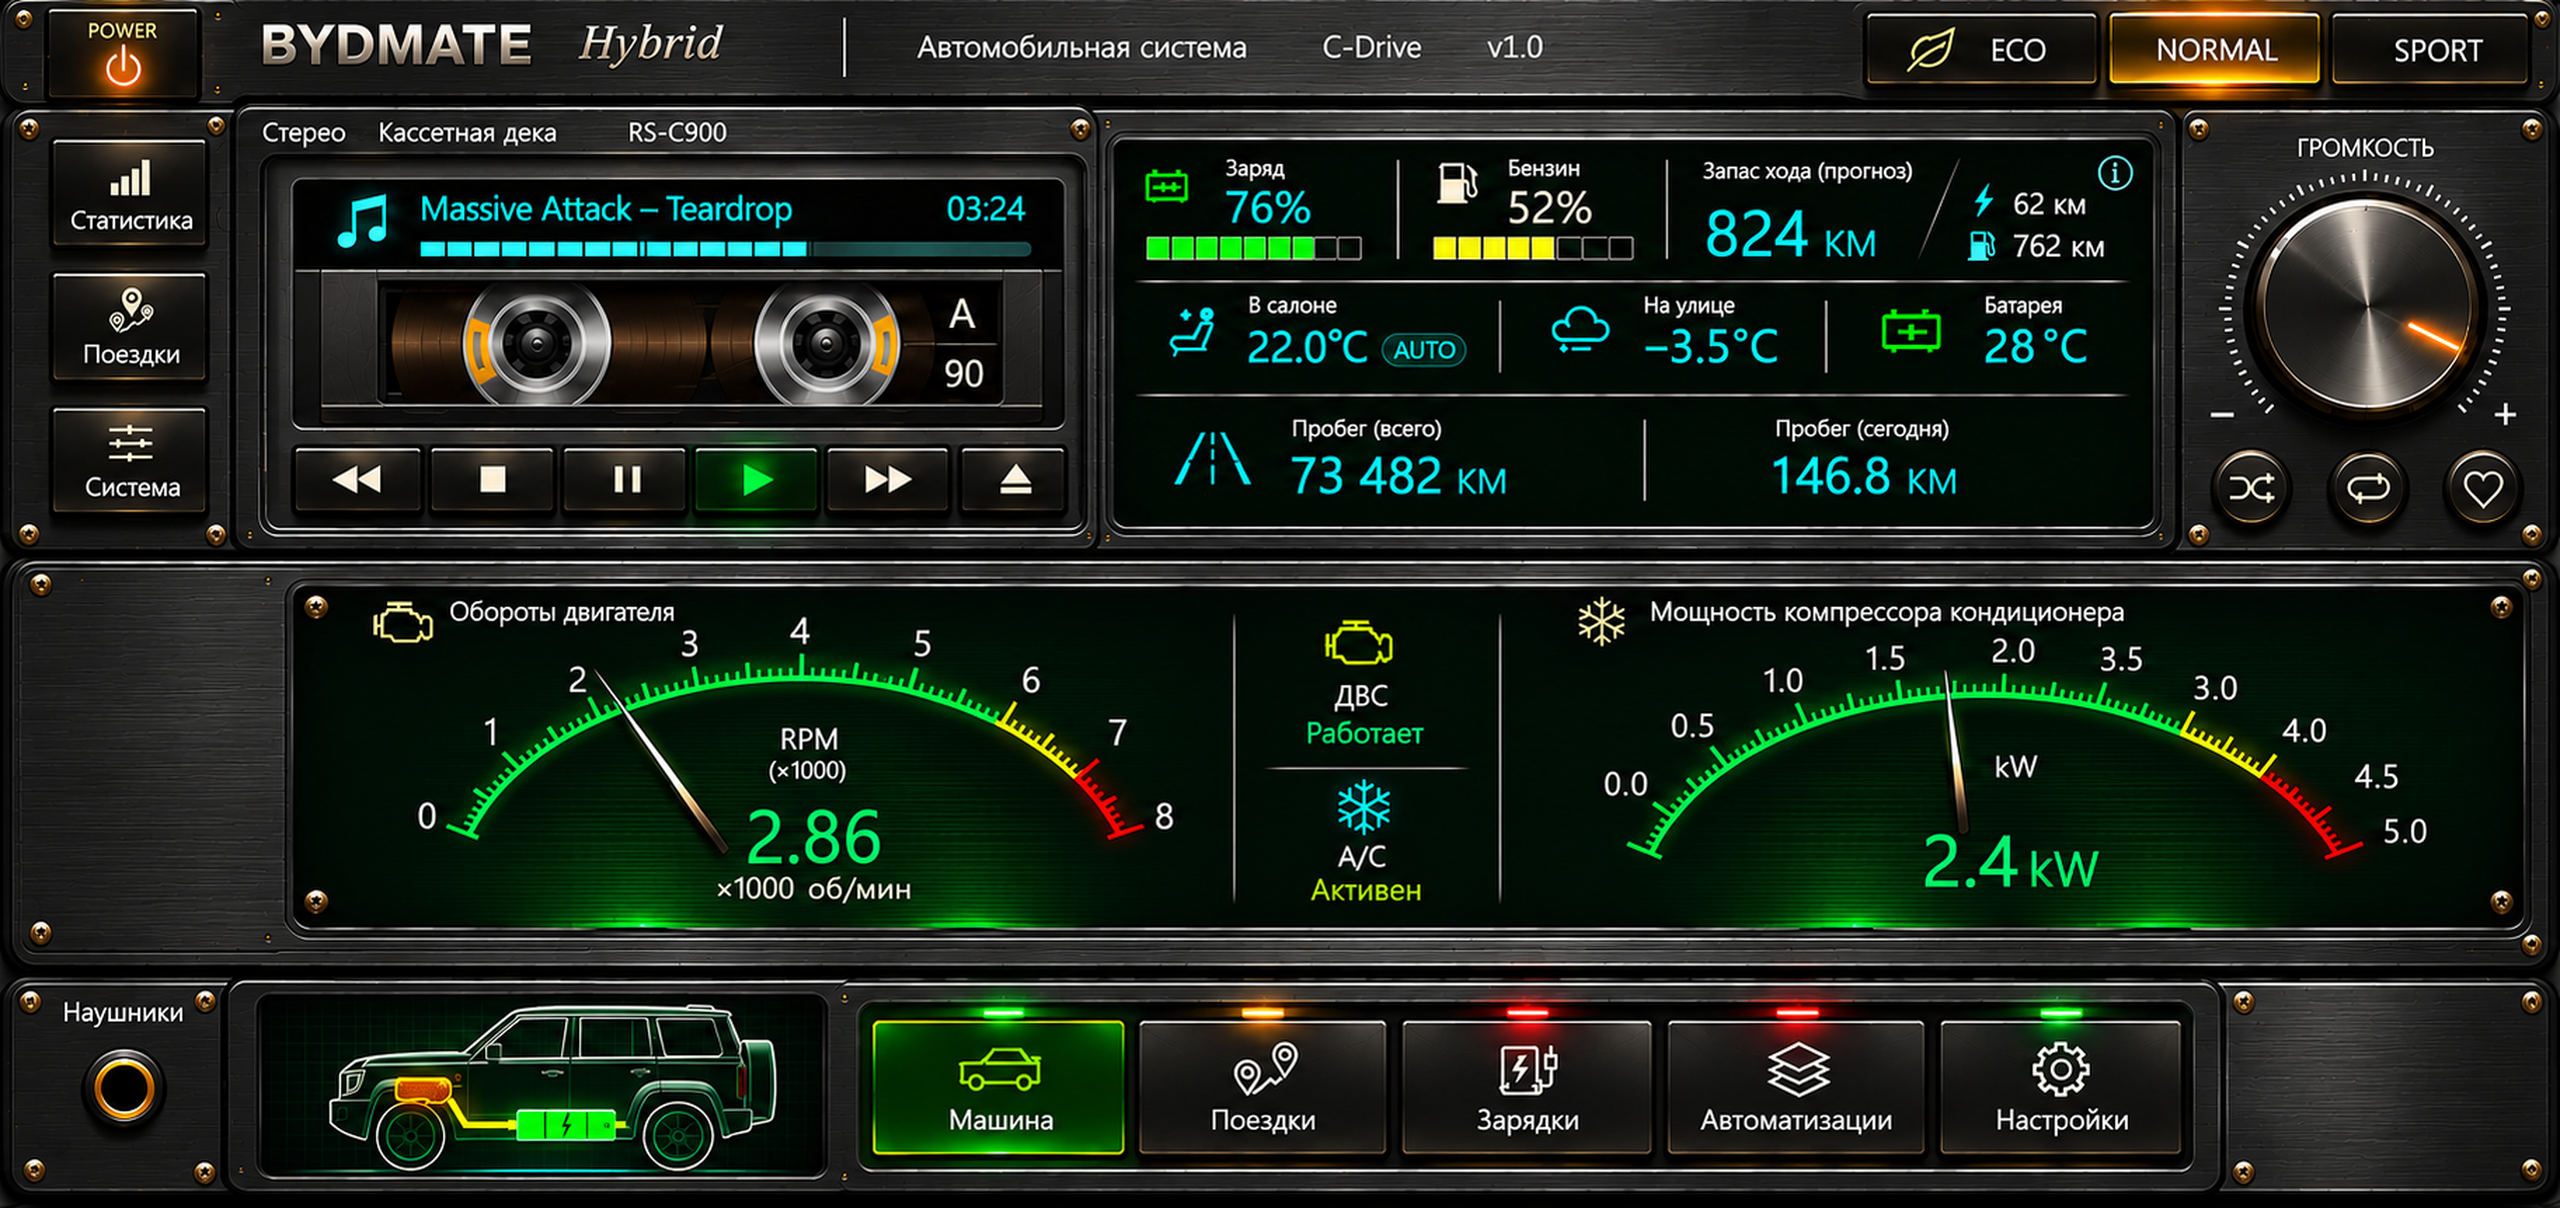
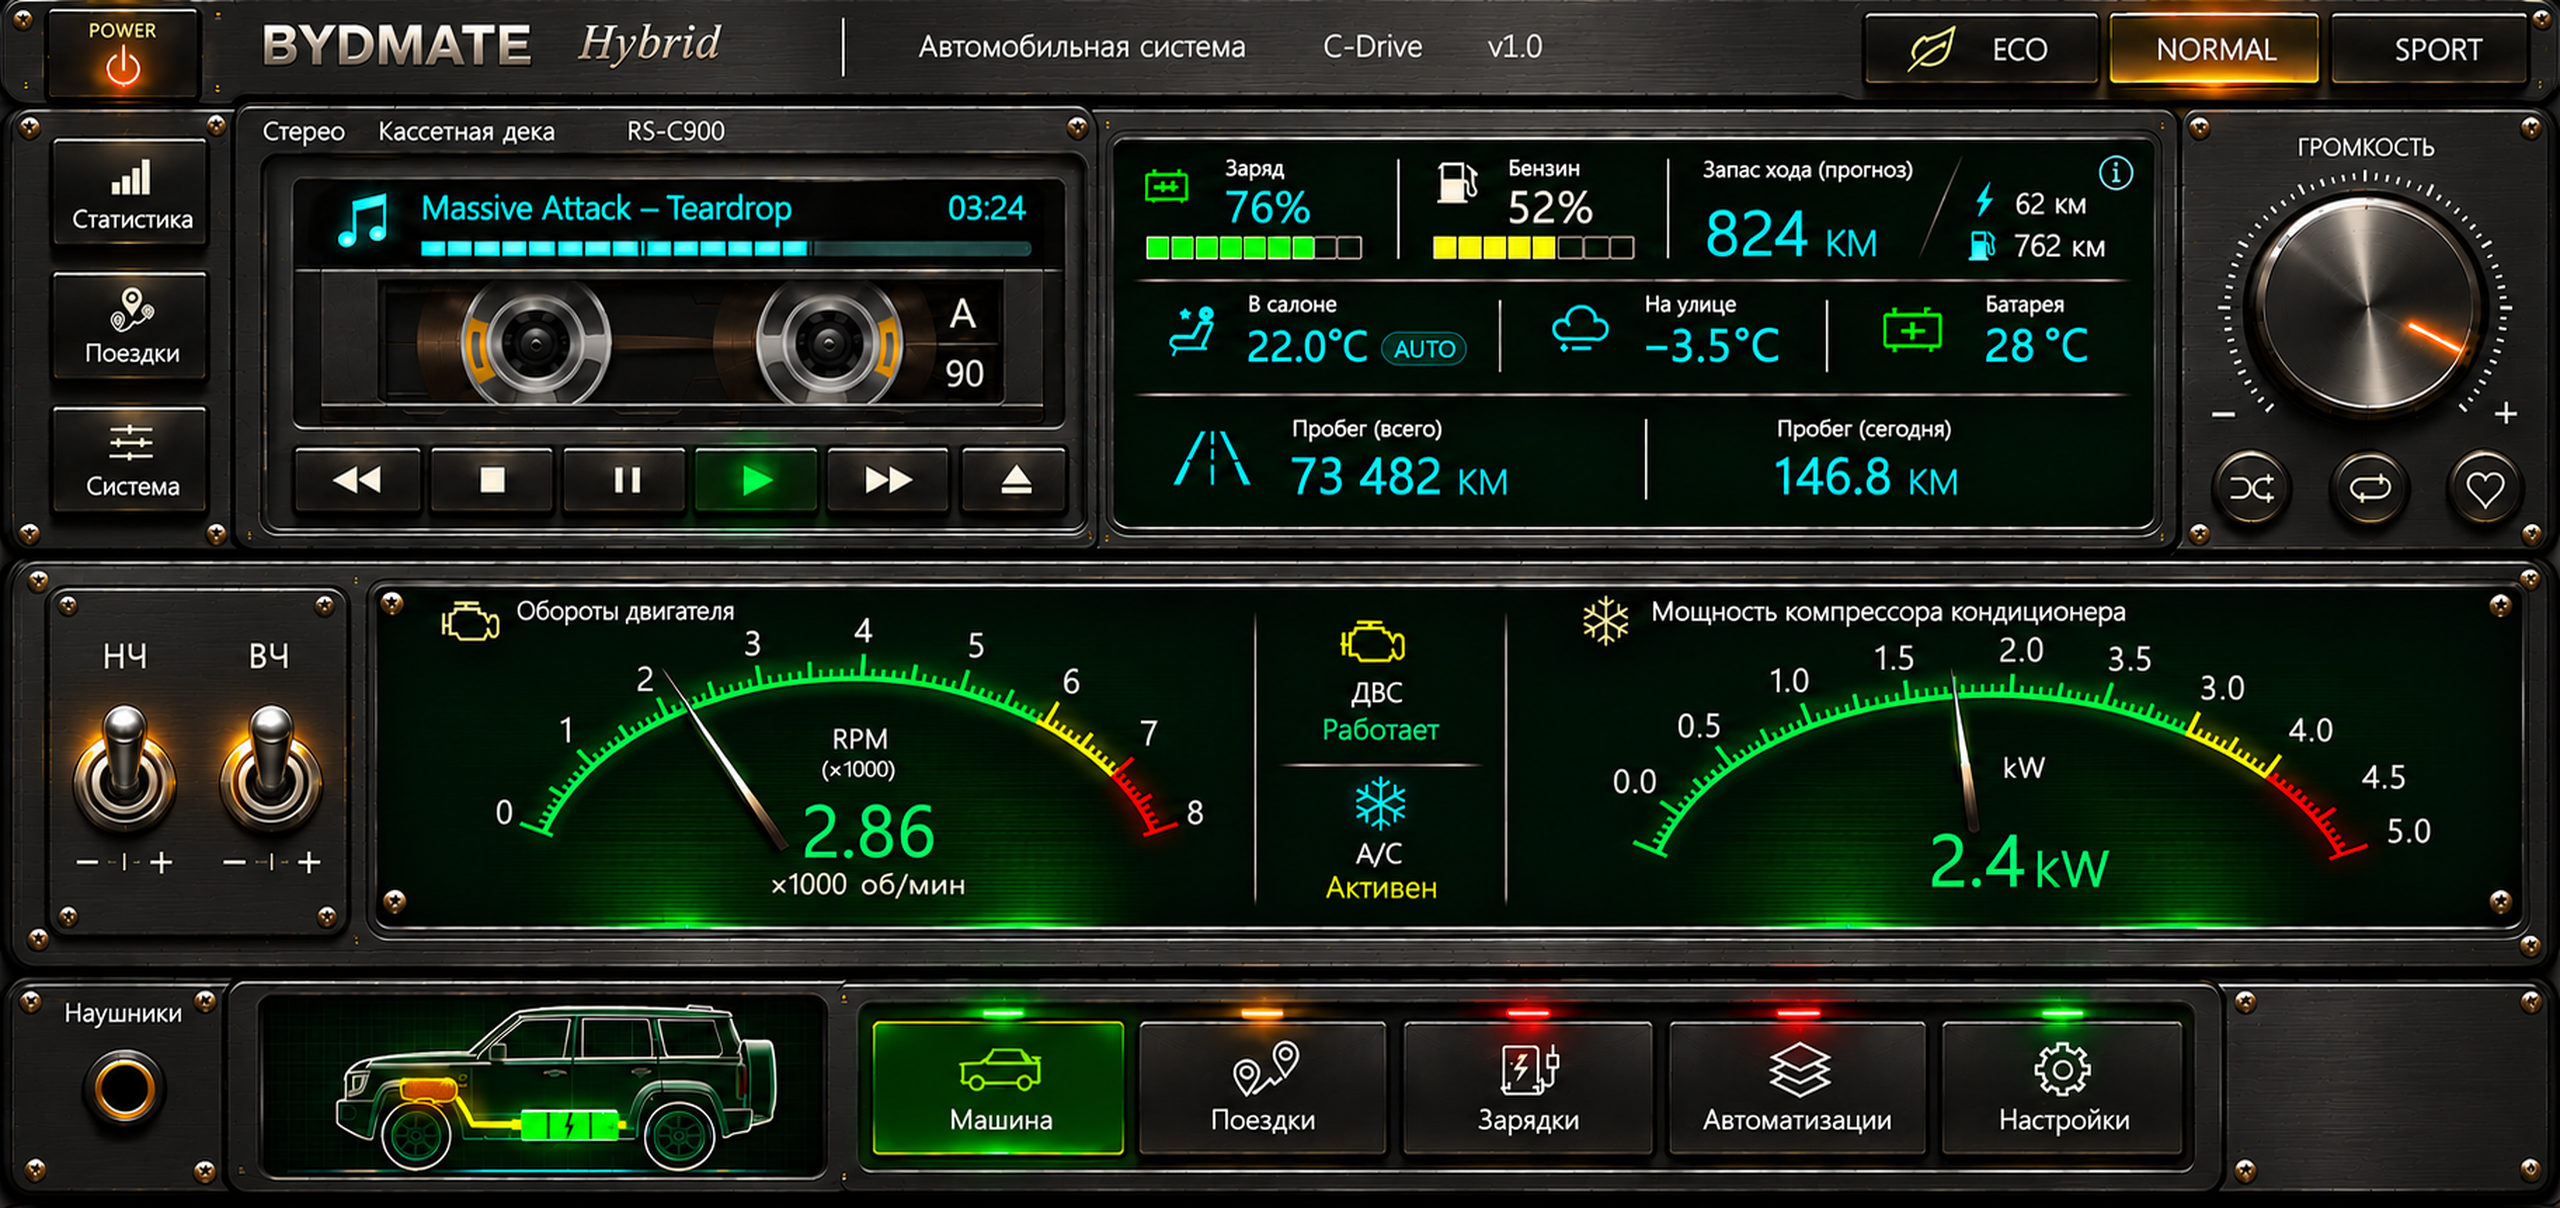
feat(fork): RS stack follows the owner's revised mockup (bass/treble panel)
The new artwork adds a printed НЧ / ВЧ toggle panel left of the meters, which
narrows the engine-speed meter and nudges the rest. The backplate is rebuilt
from it; the rpm and compressor scales, values, statuses, lamps and reel hubs
take the new positions.

diff --git a/app/src/main/kotlin/com/bydmate/app/ui/home/hybrid/HybridHome.kt b/app/src/main/kotlin/com/bydmate/app/ui/home/hybrid/HybridHome.kt
@@ -173,8 +173,8 @@ private fun TrackBar(progress: Float, modifier: Modifier) {
 }
 
 /** Reel centres in the printed tape window. */
-private const val REEL_L_X = 537
-private const val REEL_R_X = 826
+private const val REEL_L_X = 536
+private const val REEL_R_X = 829
 private const val REEL_Y = 343
 private const val REEL_SIZE = 84
 
@@ -348,28 +348,28 @@ private fun VolumeMarker(volume: Float?) {
 /* ---------------------------------------------------------------- meters */
 
 /** The meter screen on the mockup: needles are clipped to it. */
-private val MeterScreen = KeyRect(296, 596, 2222, 330)
+private val MeterScreen = KeyRect(375, 596, 2142, 330)
 
 @Composable
 private fun Meters(d: HomeData) {
     val m = MeterScreen
     val rpm = d.engineRpm?.let { it / 1000.0 }
-    MeterNeedle(RpmScale, rpm, m.x, m.y, Modifier.at(m.x, m.y, 920, m.h))
-    Txt(rpm?.let { String.format(Locale.US, "%.2f", it) } ?: "—", 812, 835, 76f, Rs.Green, glow = true, centre = true, width = 300)
+    MeterNeedle(RpmScale, rpm, m.x, m.y, Modifier.at(m.x, m.y, 878, m.h))
+    Txt(rpm?.let { String.format(Locale.US, "%.2f", it) } ?: "—", 868, 830, 76f, Rs.Green, glow = true, centre = true, width = 300)
 
     CompressorLabels.forEachIndexed { i, (x, y) ->
         Txt(String.format(Locale.US, "%.1f", i * 0.5), x, y, 34f, Rs.White, centre = true, width = 90)
     }
-    MeterNeedle(CompressorScale, d.compressorKw, 1505, m.y, Modifier.at(1505, m.y, 1013, m.h))
-    ValueUnit(d.compressorKw?.let { String.format(Locale.US, "%.1f", it) } ?: "—", " kW", 1922, 858, 76f, 52f, Rs.Green)
+    MeterNeedle(CompressorScale, d.compressorKw, 1512, m.y, Modifier.at(1512, m.y, 1005, m.h))
+    ValueUnit(d.compressorKw?.let { String.format(Locale.US, "%.1f", it) } ?: "—", " kW", 1930, 860, 76f, 52f, Rs.Green)
 
     val engineOn = d.engineRpm?.let { it > 0 }
     val acOn = d.acOn
-    Txt(statusText(engineOn, "Работает", "Остановлен"), 1365, 732, 31f, if (engineOn == true) Color(0xFF39E08A) else Rs.Dim, centre = true, width = 240)
-    Txt(statusText(acOn, "Активен", "Выключен"), 1365, 890, 31f, if (acOn == true) Rs.Lime else Rs.Dim, centre = true, width = 240)
+    Txt(statusText(engineOn, "Работает", "Остановлен"), 1380, 728, 31f, if (engineOn == true) Color(0xFF39E08A) else Rs.Dim, centre = true, width = 240)
+    Txt(statusText(acOn, "Активен", "Выключен"), 1382, 887, 31f, if (acOn == true) Rs.Lime else Rs.Dim, centre = true, width = 240)
     // printed lamps go dark when their unit is off
-    if (engineOn != true) Box(Modifier.at(1314, 612, 88, 60).background(Rs.Screen.copy(alpha = 0.72f)))
-    if (acOn != true) Box(Modifier.at(1328, 772, 74, 70).background(Rs.Screen.copy(alpha = 0.72f)))
+    if (engineOn != true) Box(Modifier.at(1334, 614, 84, 62).background(Rs.Screen.copy(alpha = 0.72f)))
+    if (acOn != true) Box(Modifier.at(1348, 774, 70, 70).background(Rs.Screen.copy(alpha = 0.72f)))
 }
 
 private fun statusText(on: Boolean?, yes: String, no: String): String = when (on) {

diff --git a/app/src/main/kotlin/com/bydmate/app/ui/home/hybrid/PrintedScale.kt b/app/src/main/kotlin/com/bydmate/app/ui/home/hybrid/PrintedScale.kt
@@ -81,21 +81,21 @@ internal fun MeterNeedle(scale: PrintedScale, value: Double?, originX: Int, orig
 
 /** Engine speed: 0..8 ×1000 rpm, the numbers as printed. */
 internal val RpmScale = PrintedScale(
-    805f, 1133f, 292f, 505f,
-    listOf(0.0 to 140.0f, 1.0 to 128.4f, 2.0 to 116.6f, 3.0 to 103.3f, 4.0 to 90.6f, 5.0 to 76.5f, 6.0 to 63.6f, 7.0 to 51.8f, 8.0 to 41.5f),
+    855f, 1080f, 245f, 452f,
+    listOf(0.0 to 142.7f, 1.0 to 129.6f, 2.0 to 117.7f, 3.0 to 103.3f, 4.0 to 89.0f, 5.0 to 74.6f, 6.0 to 61.6f, 7.0 to 49.8f, 8.0 to 38.2f),
 )
 
 /** AC compressor power: 0..4.5 kW, ten marks where the artwork has its ten numbers. */
 internal val CompressorScale = PrintedScale(
-    1992f, 1132f, 301f, 466f,
+    2000f, 1128f, 299f, 452f,
     listOf(
-        0.0 to 136.7f, 0.5 to 126.6f, 1.0 to 115.0f, 1.5 to 102.6f, 2.0 to 87.5f,
-        2.5 to 74.6f, 3.0 to 63.3f, 3.5 to 52.1f, 4.0 to 43.0f, 4.5 to 36.0f,
+        0.0 to 136.5f, 0.5 to 126.7f, 1.0 to 115.2f, 1.5 to 103.0f, 2.0 to 87.4f,
+        2.5 to 74.5f, 3.0 to 63.5f, 3.5 to 52.1f, 4.0 to 42.7f, 4.5 to 35.4f,
     ),
 )
 
 /** Where the compressor numbers are printed (mockup pixels, centres), in [CompressorScale] order. */
 internal val CompressorLabels = listOf(
-    1621 to 783, 1690 to 726, 1783 to 683, 1887 to 663, 2013 to 652,
-    2121 to 663, 2215 to 688, 2305 to 730, 2372 to 778, 2402 to 834,
+    1635 to 782, 1700 to 725, 1790 to 682, 1892 to 660, 2022 to 650,
+    2130 to 660, 2220 to 687, 2310 to 730, 2380 to 777, 2415 to 833,
 )

diff --git a/tools/rs/RsBackplate.java b/tools/rs/RsBackplate.java
@@ -81,8 +81,8 @@ public class RsBackplate {
     BufferedImage leaf=new BufferedImage(71,57,BufferedImage.TYPE_INT_ARGB);   // ECO's leaf, alpha from its brightness
     for(int y=0;y<57;y++)for(int x=0;x<71;x++){ int c=orig.getRGB(1895+x,22+y); int al=cl((lum(c)-55)*255/130.0); leaf.setRGB(x,y,(al<<24)|(c&0xFFFFFF)); }
     save(leaf,out+"/rs_leaf.png");
-    reel(orig,537,343,42,out+"/rs_reel_l.png");
-    reel(orig,826,343,42,out+"/rs_reel_r.png");
+    reel(orig,536,343,42,out+"/rs_reel_l.png");
+    reel(orig,829,343,42,out+"/rs_reel_r.png");
 
     // ---- header: all three mode keys unlit, their words drawn by the app
     blit(orig,2322,0,2541,104,img,2098,0,2331,104);     // SPORT key (and its plate) over the lit NORMAL
@@ -100,16 +100,18 @@ public class RsBackplate {
     // ---- volume marker
     angFill(img,2367,306,20,104,4,46);
     // ---- meters: needles, values, statuses, compressor numbers
-    needleOnArc(orig,img,606,676,736,856,15,8,805,1133,452,40,3.2);
-    needleOnArc(orig,img,1949,670,1970,838,12,8,1992,1132,442,40,3.4);
-    needle(img,626,730,726,848,17,0);
-    needle(img,1947,708,1966,836,14,0);
-    fill(img,712,794,940,871,null,0);
-    fill(img,1912,820,2108,897,null,0);
-    fill(img,1296,710,1434,754,null,0);
-    fill(img,1298,870,1430,912,null,0);
-    int[][] kw={{1596,764,1647,801},{1659,704,1721,748},{1752,660,1814,706},{1856,640,1918,686},{1982,628,2044,676},{2092,640,2151,686},{2184,664,2246,712},{2274,707,2336,753},{2342,754,2403,802},{2372,810,2433,858}};
+    needle(img,706,742,789,849,15,8);                    // the wide lower blade, below the scale
+    needleOnArc(orig,img,664,670,712,742,8,3,855,1080,402,70,2.8);  // its thin tip across the scale
+    needleOnArc(orig,img,1957,680,1978,836,12,8,2000,1128,438,40,3.4);
+    needle(img,691,728,782,841,17,0);
+    needle(img,1955,718,1975,834,14,0);
+    fill(img,775,792,985,868,null,0);
+    fill(img,1922,822,2118,897,null,0);
+    fill(img,1310,706,1452,752,null,0);
+    fill(img,1310,864,1454,910,null,0);
+    int[][] kw={{1604,758,1663,793},{1670,703,1730,746},{1760,660,1820,703},{1862,638,1922,681},{1992,628,2052,671},{2100,638,2160,681},{2190,665,2250,708},{2280,708,2340,751},{2350,755,2410,798},{2385,811,2445,854}};
     for(int[] r:kw) fill(img,r[0],r[1],r[2],r[3],null,0);
+    fill(img,1604,793,1655,799,null,0);                 // the foot of "0.0", short of the end tick
     // ---- bottom: the lit car key becomes a plain key with the same icon and word
     blit(orig,1136,1017,1392,1165,img,866,1017,1129,1165);
     fill(img,890,1033,1110,1152,null,0);
